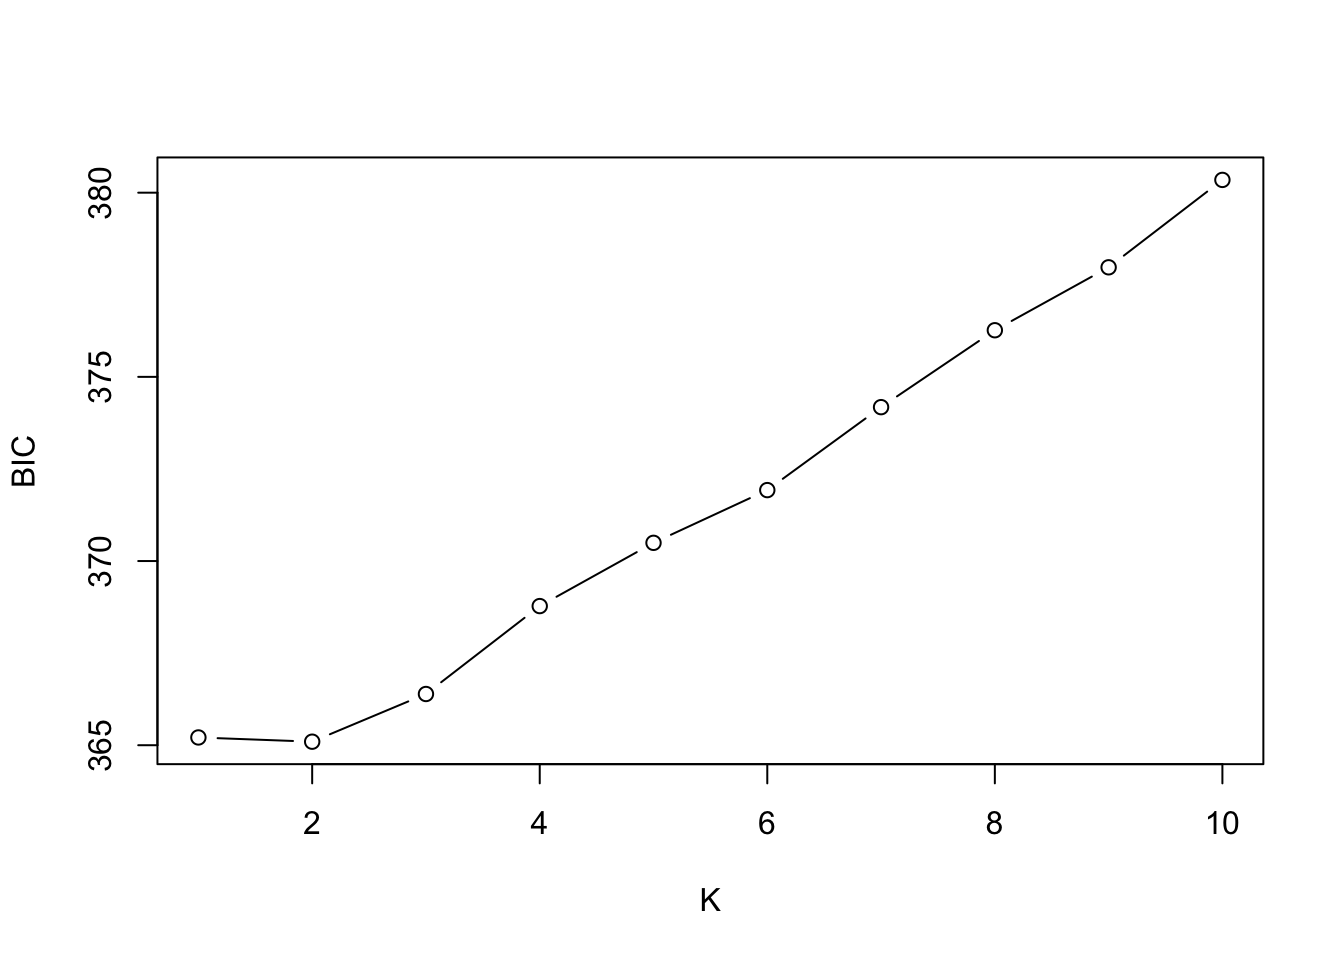
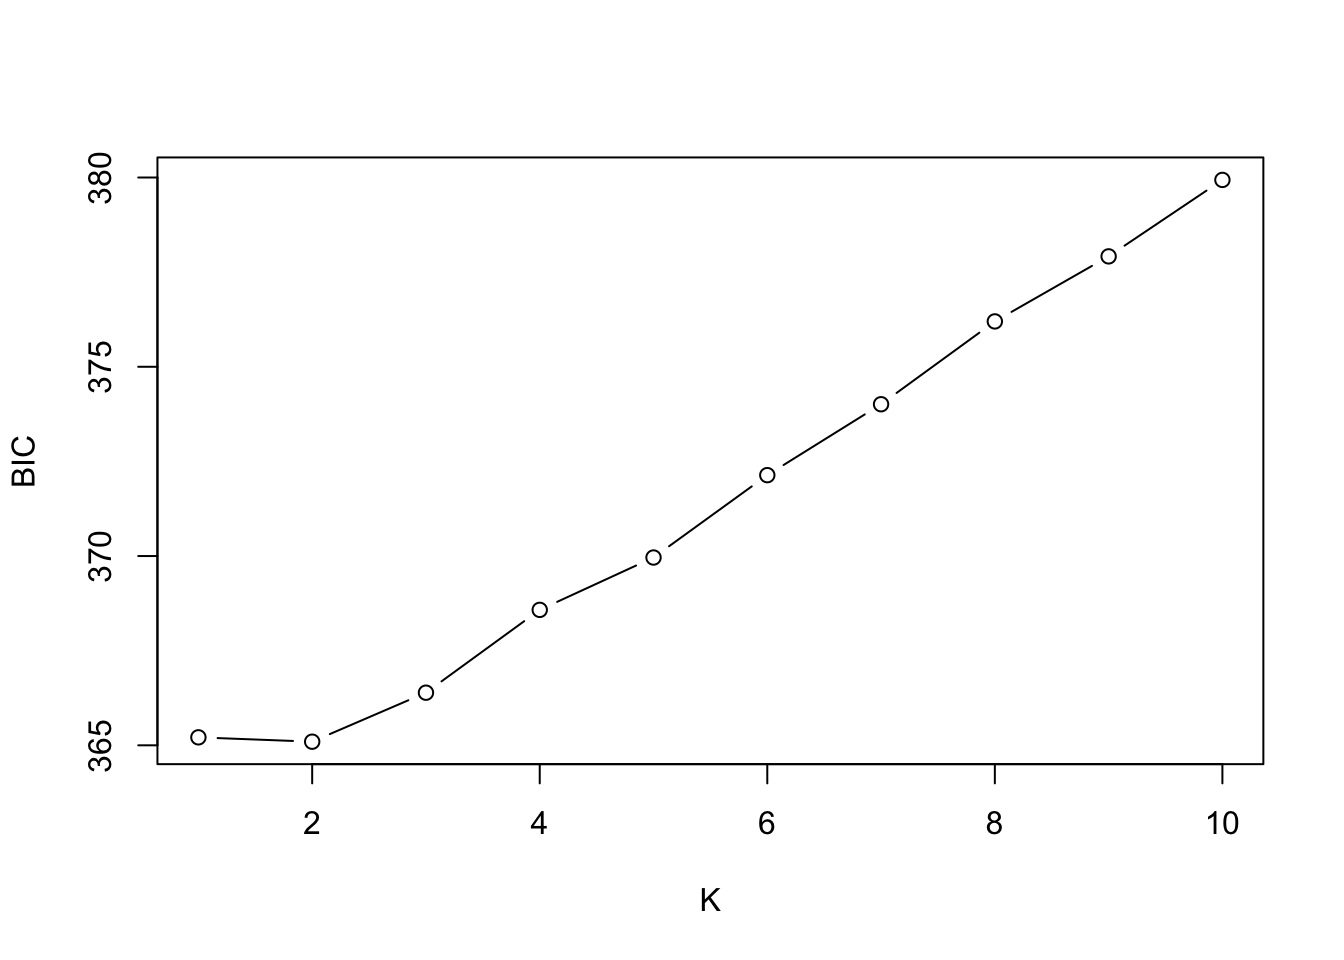
typo fix

diff --git a/docs/structure.html b/docs/structure.html
@@ -464,7 +464,7 @@ $size
 </div>
 </div>
 </div>
-<p>DAPC takes these hard-coded assignments and determines which principal components contribute to them. It</p>
+<p>DAPC takes these hard-coded assignments and determines which principal components contribute to them, as well as any uncertainty in ancestry. (It is thus designed to discriminate on the basis of user-input populations, and should be used in combination with <span class="math inline">\(K\)</span>-means clustering or other approaches for detecting and / or designating structure.)</p>
 <div class="cell">
 <div class="code-copy-outer-scaffold"><div class="sourceCode cell-code" id="cb24"><pre class="sourceCode r code-with-copy"><code class="sourceCode r"><span id="cb24-1"><a href="#cb24-1" aria-hidden="true" tabindex="-1"></a>dapc1 <span class="ot">&lt;-</span> <span class="fu">dapc</span>(species_genind, <span class="at">pop =</span> grp<span class="sc">$</span>grp, <span class="at">n.pca =</span> <span class="dv">50</span>, <span class="at">n.da =</span> <span class="dv">2</span>)</span>
 <span id="cb24-2"><a href="#cb24-2" aria-hidden="true" tabindex="-1"></a>dapc1</span></code></pre></div><button title="Copy to Clipboard" class="code-copy-button"><i class="bi"></i></button></div>
@@ -560,9 +560,9 @@ $eig (eigenvalues): 2986  vector    length content
 <span id="cb29-11"><a href="#cb29-11" aria-hidden="true" tabindex="-1"></a>grp_auto<span class="sc">$</span>Kstat</span></code></pre></div><button title="Copy to Clipboard" class="code-copy-button"><i class="bi"></i></button></div>
 <div class="cell-output cell-output-stdout">
 <pre><code>     K=1      K=2      K=3      K=4      K=5      K=6      K=7      K=8 
-365.2108 365.0958 366.3905 368.7773 370.4943 371.9258 374.1778 376.2656 
+365.2108 365.0958 366.3905 368.5782 369.9612 372.1372 374.0104 376.1985 
      K=9     K=10 
-377.9740 380.3467 </code></pre>
+377.9166 379.9365 </code></pre>
 </div>
 <div class="code-copy-outer-scaffold"><div class="sourceCode cell-code" id="cb31"><pre class="sourceCode r code-with-copy"><code class="sourceCode r"><span id="cb31-1"><a href="#cb31-1" aria-hidden="true" tabindex="-1"></a><span class="co"># plot!</span></span>
 <span id="cb31-2"><a href="#cb31-2" aria-hidden="true" tabindex="-1"></a><span class="fu">plot</span>(</span>
